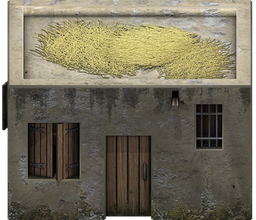
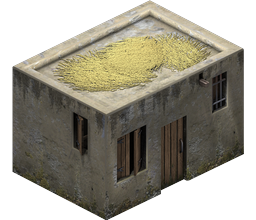
fix(assets): rebuild house from 45-degree hovel frame
Frame `00000` was a straight-on 0-degree elevation with a flat 243 px base, so the house floated on the iso grid. Rebuild `house.png` from `hovel_20000` (232×220, sloped sides converging on the tile front corner), update

diff --git a/apps/client/src/game/scenes/WorldScene.ts b/apps/client/src/game/scenes/WorldScene.ts
@@ -375,10 +375,11 @@ export class WorldScene extends Phaser.Scene {
     }
 
     // Preload generated building assets with cache-busting version (2x resolution)
-    // v=7: the portal got its own sheet (phase 09), so the renderer no longer
-    // borrows `building_TOWER` or tints it. Bump the key whenever a PNG under
-    // public/assets/buildings or /resources changes.
-    const v = 'v=7';
+    // v=8: the house moved from hovel frame 00000 (a straight-on elevation
+    // whose base was a flat 243 px line) to the 45-degree frame 20000, so its
+    // base now converges on the tile's front corner. Bump the key whenever a
+    // PNG under public/assets/buildings or /resources changes.
+    const v = 'v=8';
     this.load.image('building_TOWN_CENTER', `/assets/buildings/town_center.png?${v}`);
     this.load.image('building_BARRACKS', `/assets/buildings/barracks.png?${v}`);
     this.load.image('building_HOUSE', `/assets/buildings/house.png?${v}`);

diff --git a/docs/plans/06-aoe-asset-rebuild.md b/docs/plans/06-aoe-asset-rebuild.md
@@ -487,7 +487,7 @@ cùng lock hash.
 | `resource.tree-3` | `resources/tree_3.png` | 160×220 | `_tree_06` | CC-BY 3.0 | 0.305 |
 | `resource.tree-4` | `resources/tree_4.png` | 160×220 | `_tree_11` | CC-BY 3.0 | 0.226 |
 | `building.barracks` | `buildings/barracks.png` | 400×320 | Feudal Wars Barracks | CC0 1.0 | 1.270 |
-| `building.house` | `buildings/house.png` | 256×220 | Simple Isometric Hovel `00000` | CC-BY 4.0 | 0.630 |
+| `building.house` | `buildings/house.png` | 256×220 | Simple Isometric Hovel `20000` | CC-BY 4.0 | 0.496 |
 | `building.town-center` | `buildings/town_center.png` | 576×440 | Feudal Wars Castle | CC0 1.0 | 1.043 |
 | `building.lumber-camp` | `buildings/lumber_camp.png` | 256×220 | Feudal Wars Stable | CC0 1.0 | 0.805 |
 
@@ -530,8 +530,18 @@ Kết quả: `tsc --noEmit` sạch; `vitest run` 8 file / 142 test xanh;
 - **ART-07 tower — bỏ.** File `castle.png` tải từ trang OGA là `castle_7.png` (500×422) và **có**
   alpha (39.2% pixel trong suốt); ghi chú "đục 100%" ở bản plan trước là đo nhầm file preview. Castle
   được dùng cho town centre, còn tower vẫn là art AI vì castle không phải tháp canh.
-- **ART-06 house** dùng hovel `00000` thay vì dải houses: dải `400×100` là **một** connected
+- **ART-06 house** dùng hovel thay vì dải houses: dải `400×100` là **một** connected
   component (các nhà dính nhau), không tách bằng column runs được.
+
+  Bản đầu chọn frame `00000`; đo lại thì đó là **hình chiếu thẳng 0°**, không phải góc 45°: hàng alpha
+  cuối của `house.png` trải phẳng 243 px (≈ trọn bề ngang footprint 2×2 = 256 px) và hai sườn đáy có
+  dx/dy = 0.00 / -0.00, trong khi lưới 128×64 cần hai sườn dốc ±2 hội tụ về **một** góc trước. Hệ quả
+  là nhà đọc như tấm bìa dựng đứng trên lưới iso. Frame `20000` là hướng 45° kề đó: art 232×220, hàng
+  cuối chỉ còn 4 px, sườn 1.93 / -1.83 — khớp projection. Chọn `20000` (góc trước lệch trái) vì tâm
+  vùng tối nhất của nó (+3.2% bề ngang) gần barracks (+4.2%) và castle (+6.5%) đang ship, tức cùng
+  phía cửa với bộ feudalwars. `00000`/`60000` còn lại vẫn dùng được: đổi `manifest.json` `entry` rồi
+  build lại, không phải sửa code. Art cũ trước đợt OGA vốn đúng iso (sườn 1.90 / -2.84, hàng cuối
+  2 px), nên đây là regression của lần swap, không phải lỗi có từ đầu.
 - **ART-09** chỉ làm lumber camp (stable). Mill/mining camp không có nguồn tương ứng trong collection.
 - **ART-10** danh sách legacy hiện ghi ở `scripts/assets/README.md` §Not migrated; manifest chỉ chứa
   target đã migrate. Nếu muốn `--check` cảnh báo asset legacy thì thêm mảng `legacy` vào manifest ở
@@ -543,7 +553,8 @@ ràng buộc "chỉ CC0/CC-BY" đúng như plan của nó.
 ### 16.4 Còn cần verify tay
 
 - 4 biến thể cây trong rừng thật: tỷ lệ, chân cây, có bị lặp/không khớp tông không.
-- Barracks (upscale 1.27×) có bị mềm ở zoom 2.2× không; house có đúng hướng nhìn không (hovel chỉ có
-  1 hướng đã chọn); castle (upscale 1.04×) có đọc ra "nhà chính" hay chỉ ra "pháo đài".
+- Barracks (upscale 1.27×) có bị mềm ở zoom 2.2× không; castle (upscale 1.04×) có đọc ra "nhà chính"
+  hay chỉ ra "pháo đài". House đã đúng projection; còn phải xem bằng mắt là cửa hovel có quay cùng
+  phía với cửa barracks/castle không, và dáng "túp lều" có đọc ra House không.
 - Thanh máu 4 công trình mới có nằm sát mái không; badge level không đè art.
 - Lumber camp dùng sprite chuồng ngựa có đọc ra "trại gỗ" không.

diff --git a/docs/plans/README.md b/docs/plans/README.md
@@ -16,6 +16,7 @@ Thư mục này thay cho `docs/plan/` (số ít) đã bị xoá ở commit `94cc
 | [`07-smaller-kingdom-map.md`](./07-smaller-kingdom-map.md) | Kingdom riêng nhỏ lại 110×110, TC ở giữa map, map size theo zone (`D1–D8`) | IMPLEMENTED — chờ verify tay UI |
 | [`08-progression-curve.md`](./08-progression-curve.md) | Đường cong nâng cấp dài hạn: 1-10 tính bằng phút, từ 11 tính bằng giờ (×1,05/cấp), gate TC ↔ 4 trụ cột, 2 slot (`LVL2-00..LVL2-07`) | APPROVED — chờ code |
 | [`09-road-and-gate-assets.md`](./09-road-and-gate-assets.md) | Thay art đường đất + cổng bằng 2 ảnh AI gen, bỏ tint tím mượn tower (`GATE-01..ROAD-02`) | IMPLEMENTED — chờ verify tay |
+| [`10-persistence-scaling.md`](./10-persistence-scaling.md) | Chi phí autosave theo zone, tải theo số user, dirty tracking + batch upsert + resource delta (`SAVE-01..SAVE-07`) | DRAFT |
 
 Status: `DRAFT` (chưa chốt quyết định) → `APPROVED` (bắt đầu code) → `DONE`.
 
@@ -67,6 +68,14 @@ Quyết định đáng chú ý: căn cổng bottom-center theo bbox (tâm lối 
 `-140`, bỏ tint, và chuẩn hoá 4 crop đường về mean 150. Đã implement ngày 2026-11-03: `portal.png`
 320×360 (topInset 4 → `HP_BAR_Y.PORTAL = -326`), 4 road stamp 120×60 mean 150, `--check` của script
 mới và `build.py --check` đều xanh; còn verify tay §7.2. Xem `09-road-and-gate-assets.md` §3 và §6.
+
+Phase 10 (persistence scaling) không sửa gameplay: nó ghi lại chi phí thật của autosave 30 s theo
+zone (mỗi user một kingdom room, battlefield dùng chung) và đề xuất 4 bước giảm tải — dirty tracking,
+batch upsert entity, resource delta, throttle tick của room rỗng. Kết luận hiện tại: 1 request/30 s
+mỗi user là **không đáng kể**; nút thắt là số statement bên trong mỗi request (mỗi entity một upsert)
+và SQLite một writer, cộng thêm 20 Hz tick cho mỗi room. Số đo trên dev DB: battlefield 1258 resource
+node, kingdom ~260 node. **Chưa có dòng code nào**, các quyết định D1–D7 còn ở trạng thái ĐỀ XUẤT; xem
+`10-persistence-scaling.md` §2–§5.
 
 ## Quy ước
 
